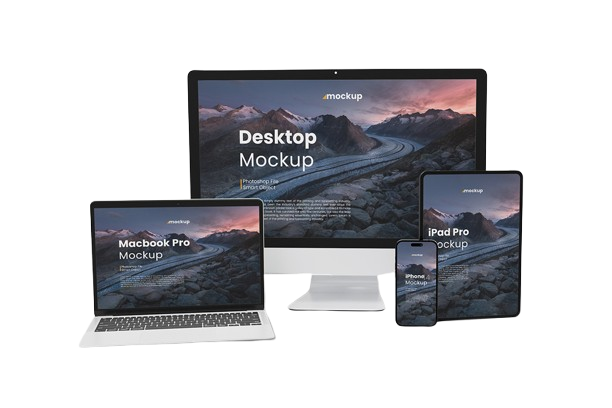
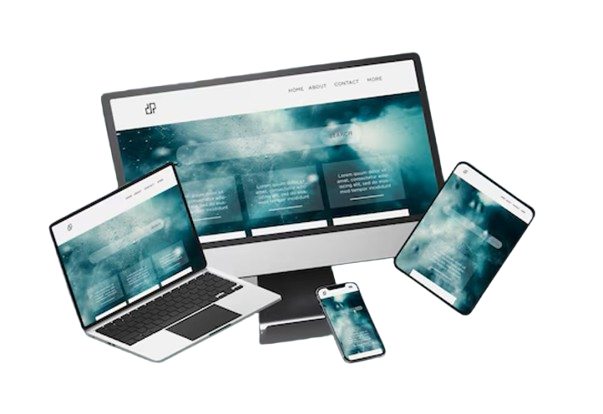
add delete image page

diff --git a/assets/css/admin.css b/assets/css/admin.css
@@ -203,3 +203,36 @@ input[type="file"]{
 .btn.danger:hover{
     background:#b91c1c;
 }
+
+.current-images{
+    display:grid;
+    grid-template-columns:repeat(auto-fill,minmax(200px,1fr));
+    gap:20px;
+    margin-top:20px;
+}
+
+.image-box{
+    position:relative;
+    border-radius:20px;
+    overflow:hidden;
+}
+
+.image-box img{
+    width:100%;
+    height:200px;
+    object-fit:cover;
+    display:block;
+    
+}
+
+.delete-image-btn{
+    position:absolute;
+    bottom:10px;
+    left:10px;
+    background:#ff3b3b;
+    color:#fff;
+    padding:8px 14px;
+    border-radius:10px;
+    text-decoration:none;
+    font-size:14px;
+}

diff --git a/assets/css/style.css b/assets/css/style.css
@@ -238,7 +238,7 @@
     width: 100%;
     height: 100%;
 
-    object-fit: cover;
+    object-fit: contain;
 
     opacity: 0;
 

diff --git a/admin/delete-image.php b/admin/delete-image.php
@@ -1,0 +1,86 @@
+<?php
+
+session_start();
+
+if(!isset($_SESSION['admin'])){
+    header("Location: login.php");
+    exit;
+}
+
+require_once '../config/db.php';
+
+/*
+|--------------------------------------------------------------------------
+| التحقق من وجود id
+|--------------------------------------------------------------------------
+*/
+
+if(!isset($_GET['id'])){
+
+    header("Location: dashboard.php");
+    exit;
+
+}
+
+$imageId = (int) $_GET['id'];
+
+/*
+|--------------------------------------------------------------------------
+| جلب الصورة
+|--------------------------------------------------------------------------
+*/
+
+$stmt = $pdo->prepare("
+    SELECT *
+    FROM project_images
+    WHERE id = ?
+");
+
+$stmt->execute([$imageId]);
+
+$image = $stmt->fetch();
+
+if(!$image){
+
+    die("الصورة غير موجودة");
+
+}
+
+/*
+|--------------------------------------------------------------------------
+| حذف الصورة من السيرفر
+|--------------------------------------------------------------------------
+*/
+
+$imagePath = "../" . $image['image'];
+
+if(file_exists($imagePath)){
+
+    unlink($imagePath);
+
+}
+
+/*
+|--------------------------------------------------------------------------
+| حذف الصورة من قاعدة البيانات
+|--------------------------------------------------------------------------
+*/
+
+$deleteStmt = $pdo->prepare("
+    DELETE FROM project_images
+    WHERE id = ?
+");
+
+$deleteStmt->execute([$imageId]);
+
+/*
+|--------------------------------------------------------------------------
+| الرجوع لصفحة التعديل
+|--------------------------------------------------------------------------
+*/
+
+header("Location: edit-project.php?id=" . $image['project_id']);
+
+exit;
+
+?>

diff --git a/admin/edit-project.php b/admin/edit-project.php
@@ -165,7 +165,7 @@ if($_SERVER['REQUEST_METHOD'] === 'POST'){
         تعديل المشروع
     </title>
 
-    <link rel="stylesheet" href="../assets/css/style.css">
+    <link rel="stylesheet" href="../assets/css/admin.css">
 
 </head>
 
@@ -231,38 +231,27 @@ if($_SERVER['REQUEST_METHOD'] === 'POST'){
 
             <!-- الصور الحالية -->
 
-            <div class="current-images">
+<div class="current-images">
 
-                <h3>
-                    الصور الحالية
-                </h3>
+    <?php foreach($images as $img): ?>
 
-                <div class="images-grid">
+        <div class="image-box">
 
-                    <?php foreach($images as $image): ?>
+            <img src="../<?= $img['image'] ?>" alt="">
 
-                        <div class="image-card">
+            <a 
+                href="delete-image.php?id=<?= $img['id'] ?>"
+                class="delete-image-btn"
+                onclick="return confirm('هل أنت متأكد من حذف الصورة؟')"
+            >
+                حذف الصورة
+            </a>
 
-                            <img
-                                src="../<?= $image['image'] ?>"
-                                alt=""
-                            >
+        </div>
 
-                            <a
-                                href="delete-image.php?id=<?= $image['id'] ?>&project_id=<?= $project['id'] ?>"
-                                class="delete-image-btn"
-                                onclick="return confirm('هل تريد حذف الصورة؟')"
-                            >
-                                حذف
-                            </a>
+    <?php endforeach; ?>
 
-                        </div>
-
-                    <?php endforeach; ?>
-
-                </div>
-
-            </div>
+</div>
 
             <!-- إضافة صور جديدة -->
 

diff --git a/index.php b/index.php
@@ -132,11 +132,11 @@ $projects = $stmt->fetchAll();
 
   <div class="hero-slider">
 
-    <img src="assets/images/hero_image1.jpg" class="hero-slide active" alt="">
+    <img src="assets/images/hero_image1.png" class="hero-slide active" alt="">
     
     <img src="assets/images/hero_image2.jpg" class="hero-slide" alt="">
     
-        <img src="assets/images/hero_image3.jpg" class="hero-slide" alt="">
+        <img src="assets/images/hero_image3.png" class="hero-slide" alt="">
 
     <img src="assets/images/hero_image4.png" class="hero-slide" alt="">
 